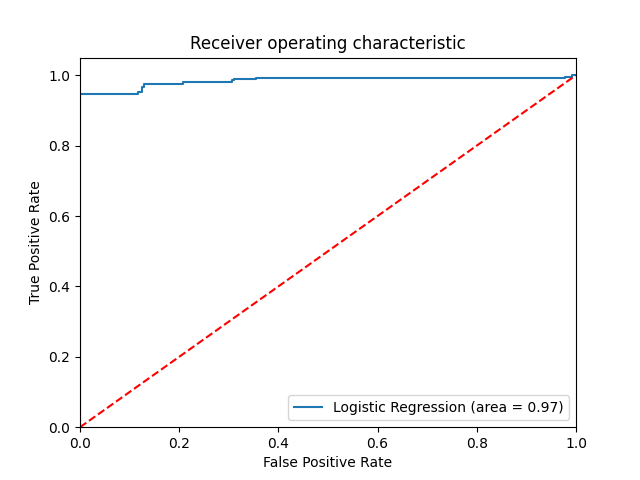
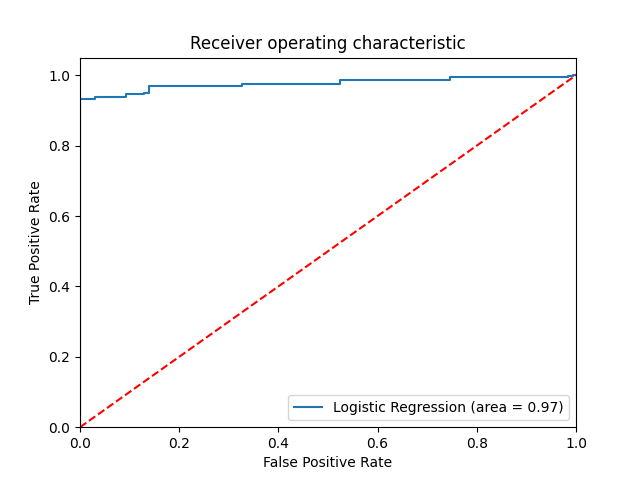
validated and done ish

Changed region(s): [[0.125, 0.1562, 0.875, 0.2188]]

diff --git a/mushrooms.py b/mushrooms.py
@@ -97,7 +97,7 @@ x = data.loc[:, useful]
 
 
 # removing statistically insignificant features (veil-color and gill-attachment)
-useful = ['cap-surface', 'bruises', 'gill-spacing', 'gill-size',
+useful = ['bruises', 'gill-spacing', 'gill-size',
           'stalk-root', 'stalk-surface-above-ring',
           'ring-type', 'spore-print-color', 'population']
 x = data.loc[:, useful]
@@ -109,16 +109,47 @@ result=logit_model.fit()
 print(result.summary2())
 
 #logreg on the useful data
-x_train, x_test, y_train, y_test = train_test_split(x, y, test_size=.3, random_state=0)
+x_train, x_test, y_train, y_test = train_test_split(x, y, test_size=.2, random_state=0)
+x_train, x_val, y_train, y_val = train_test_split(x_train, y_train, test_size=0.25, random_state=1) # 0.25 x 0.8 = 0.2
 train_score_list = []
 test_score_list = []
 
+# tested using every solver available and got the same
+# weighted this way bc id rather mistakenly id a poison than an an edible
+# more cautious
 logreg = LogisticRegression(solver="liblinear", class_weight={0:.7, 1:.3})
 logreg.fit(x_train, y_train)
 y_pred = logreg.predict(x_test)
+
+
+y_pred_train = logreg.predict(x_train)
+y_pred_test = logreg.predict(x_test)
+y_pred_val = logreg.predict(x_val)
+from sklearn.metrics import accuracy_score
+print("training accuracy: " + str(accuracy_score(y_train, y_pred_train)))
+print("testing accuracy: " + str(accuracy_score(y_test, y_pred_test)))
+print("validation accuracy: " + str(accuracy_score(y_val, y_pred_val)))
+
 confusion_matrix = confusion_matrix(y_test, y_pred)
 print(confusion_matrix)
 print(classification_report(y_test, y_pred))
+print(logreg.get_params())
+
+
+# visualize conf matrix:
+
+# class_names=[0,1] # name  of classes
+# fig, ax = plt.subplots()
+# tick_marks = np.arange(len(class_names))
+# plt.xticks(tick_marks, class_names)
+# plt.yticks(tick_marks, class_names)
+# # create heatmap
+# sns.heatmap(pd.DataFrame(confusion_matrix), annot=True, cmap="YlGnBu" ,fmt='g')
+# ax.xaxis.set_label_position("top")
+# plt.tight_layout()
+# plt.title('Confusion matrix', y=1.1)
+# plt.ylabel('Actual label')
+# plt.xlabel('Predicted label')
 
 """
 using test size = .2 and random state = 0 
@@ -131,7 +162,7 @@ gives us confusion matrix of
  BUT! only 12 FP
  
  and an accuracy report of:
-              precision    recall  f1-score   support
+              precision   recall  f1-score   support
 
         P 0     0.94      0.99      0.97      1166
         E 1     0.99      0.95      0.97      1272
